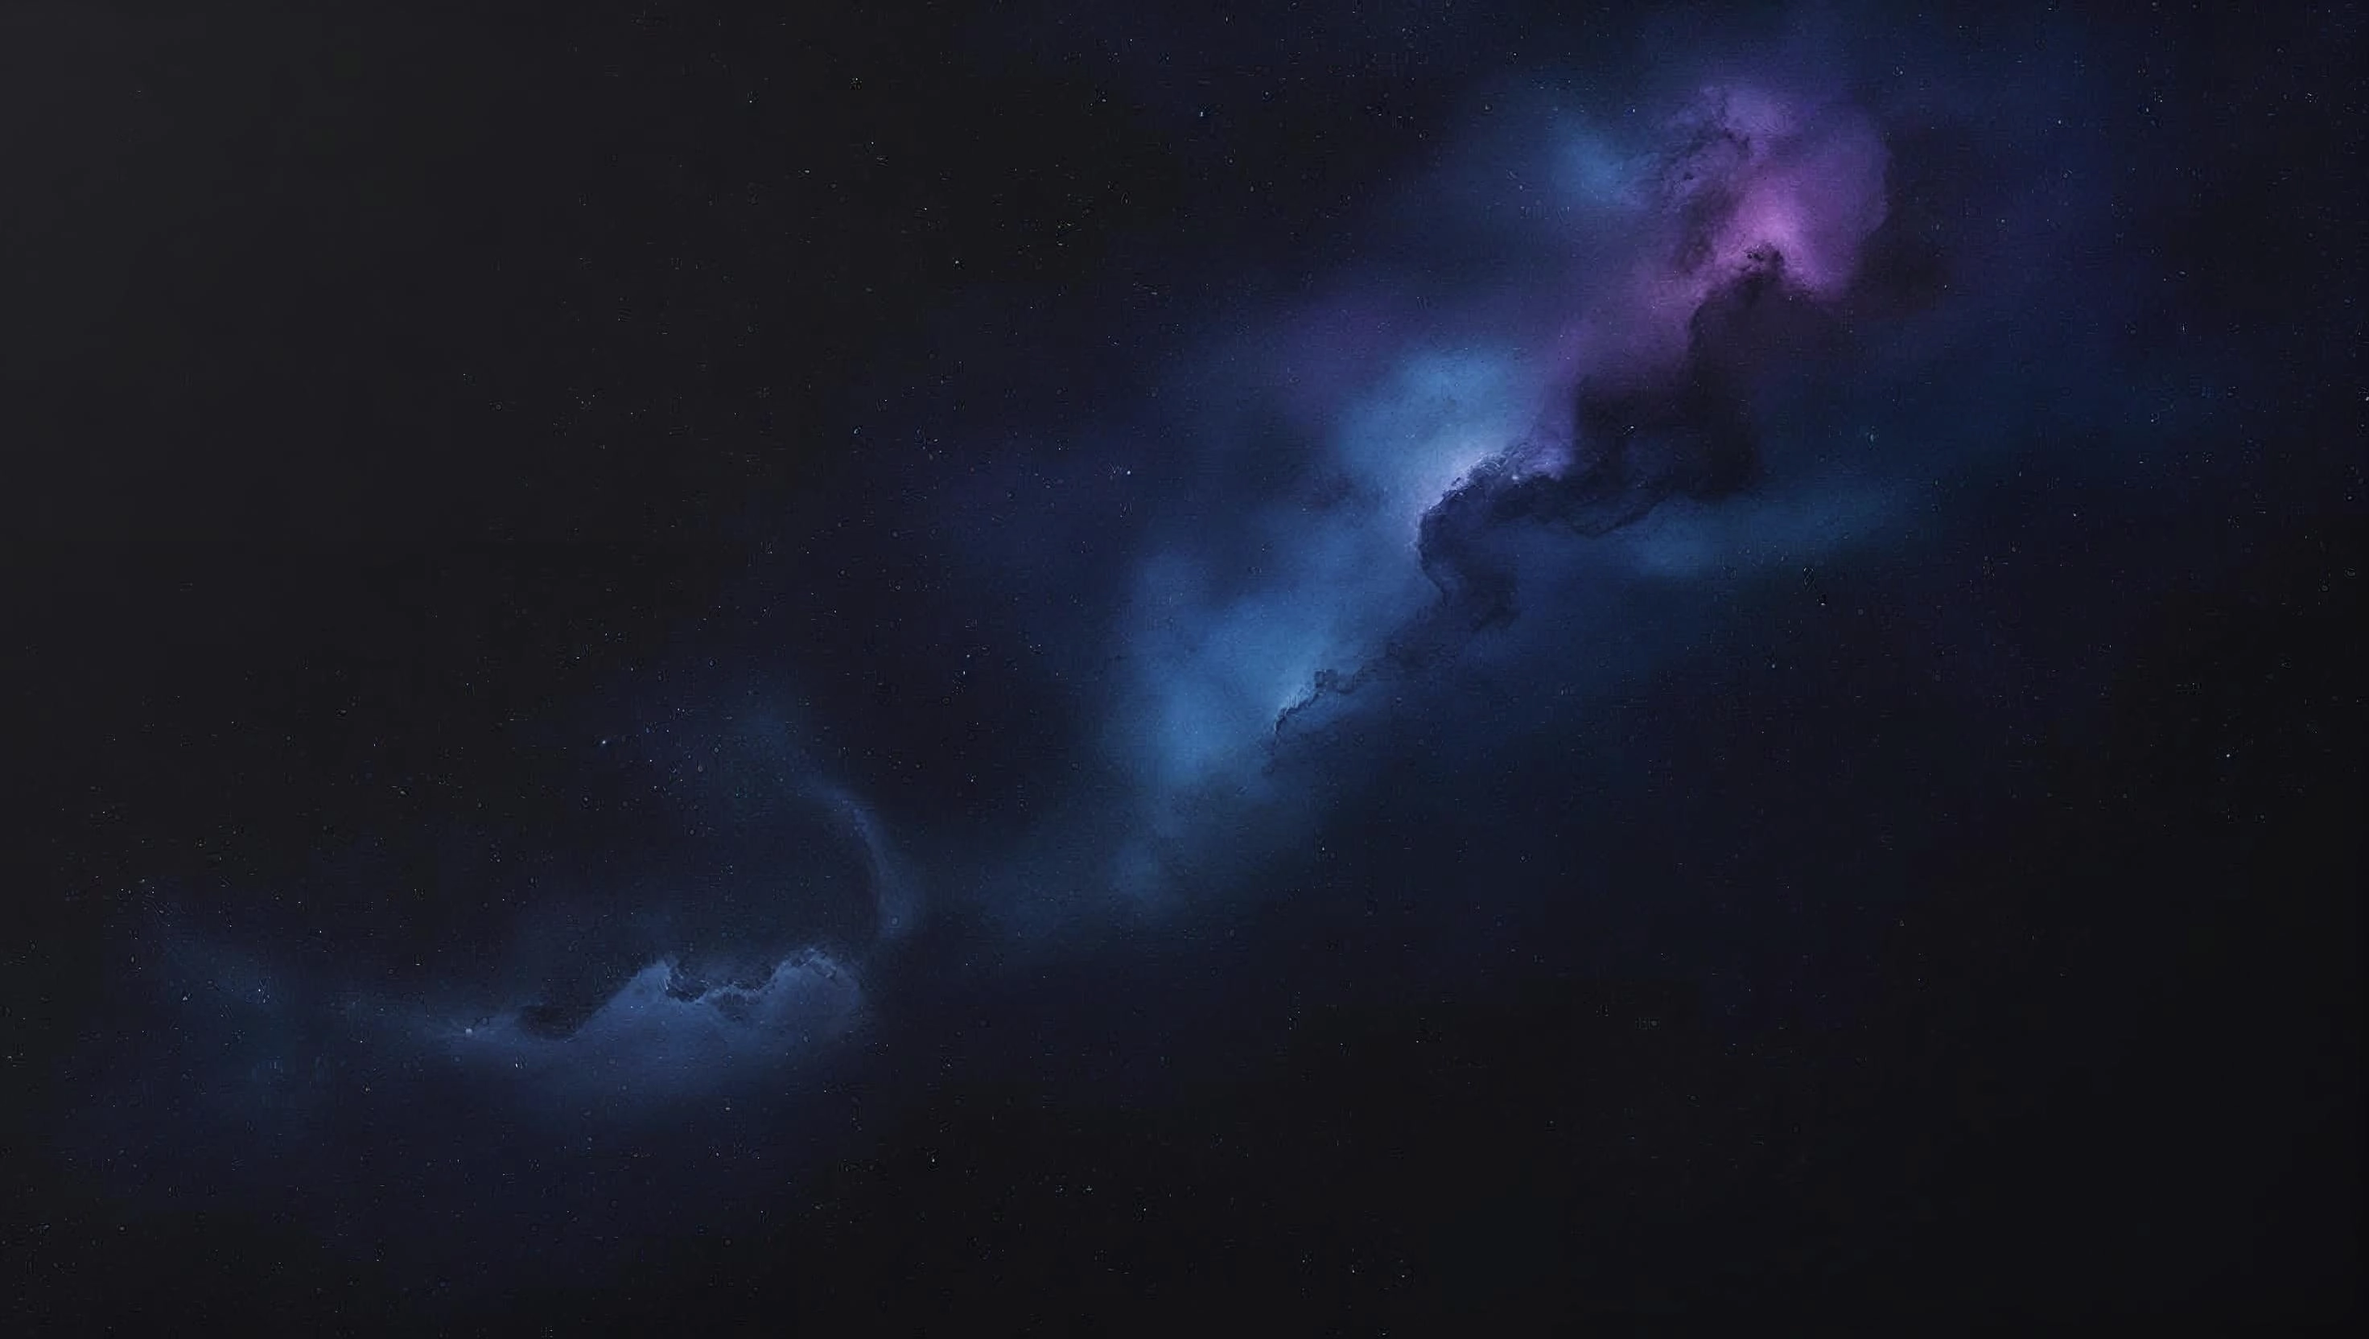
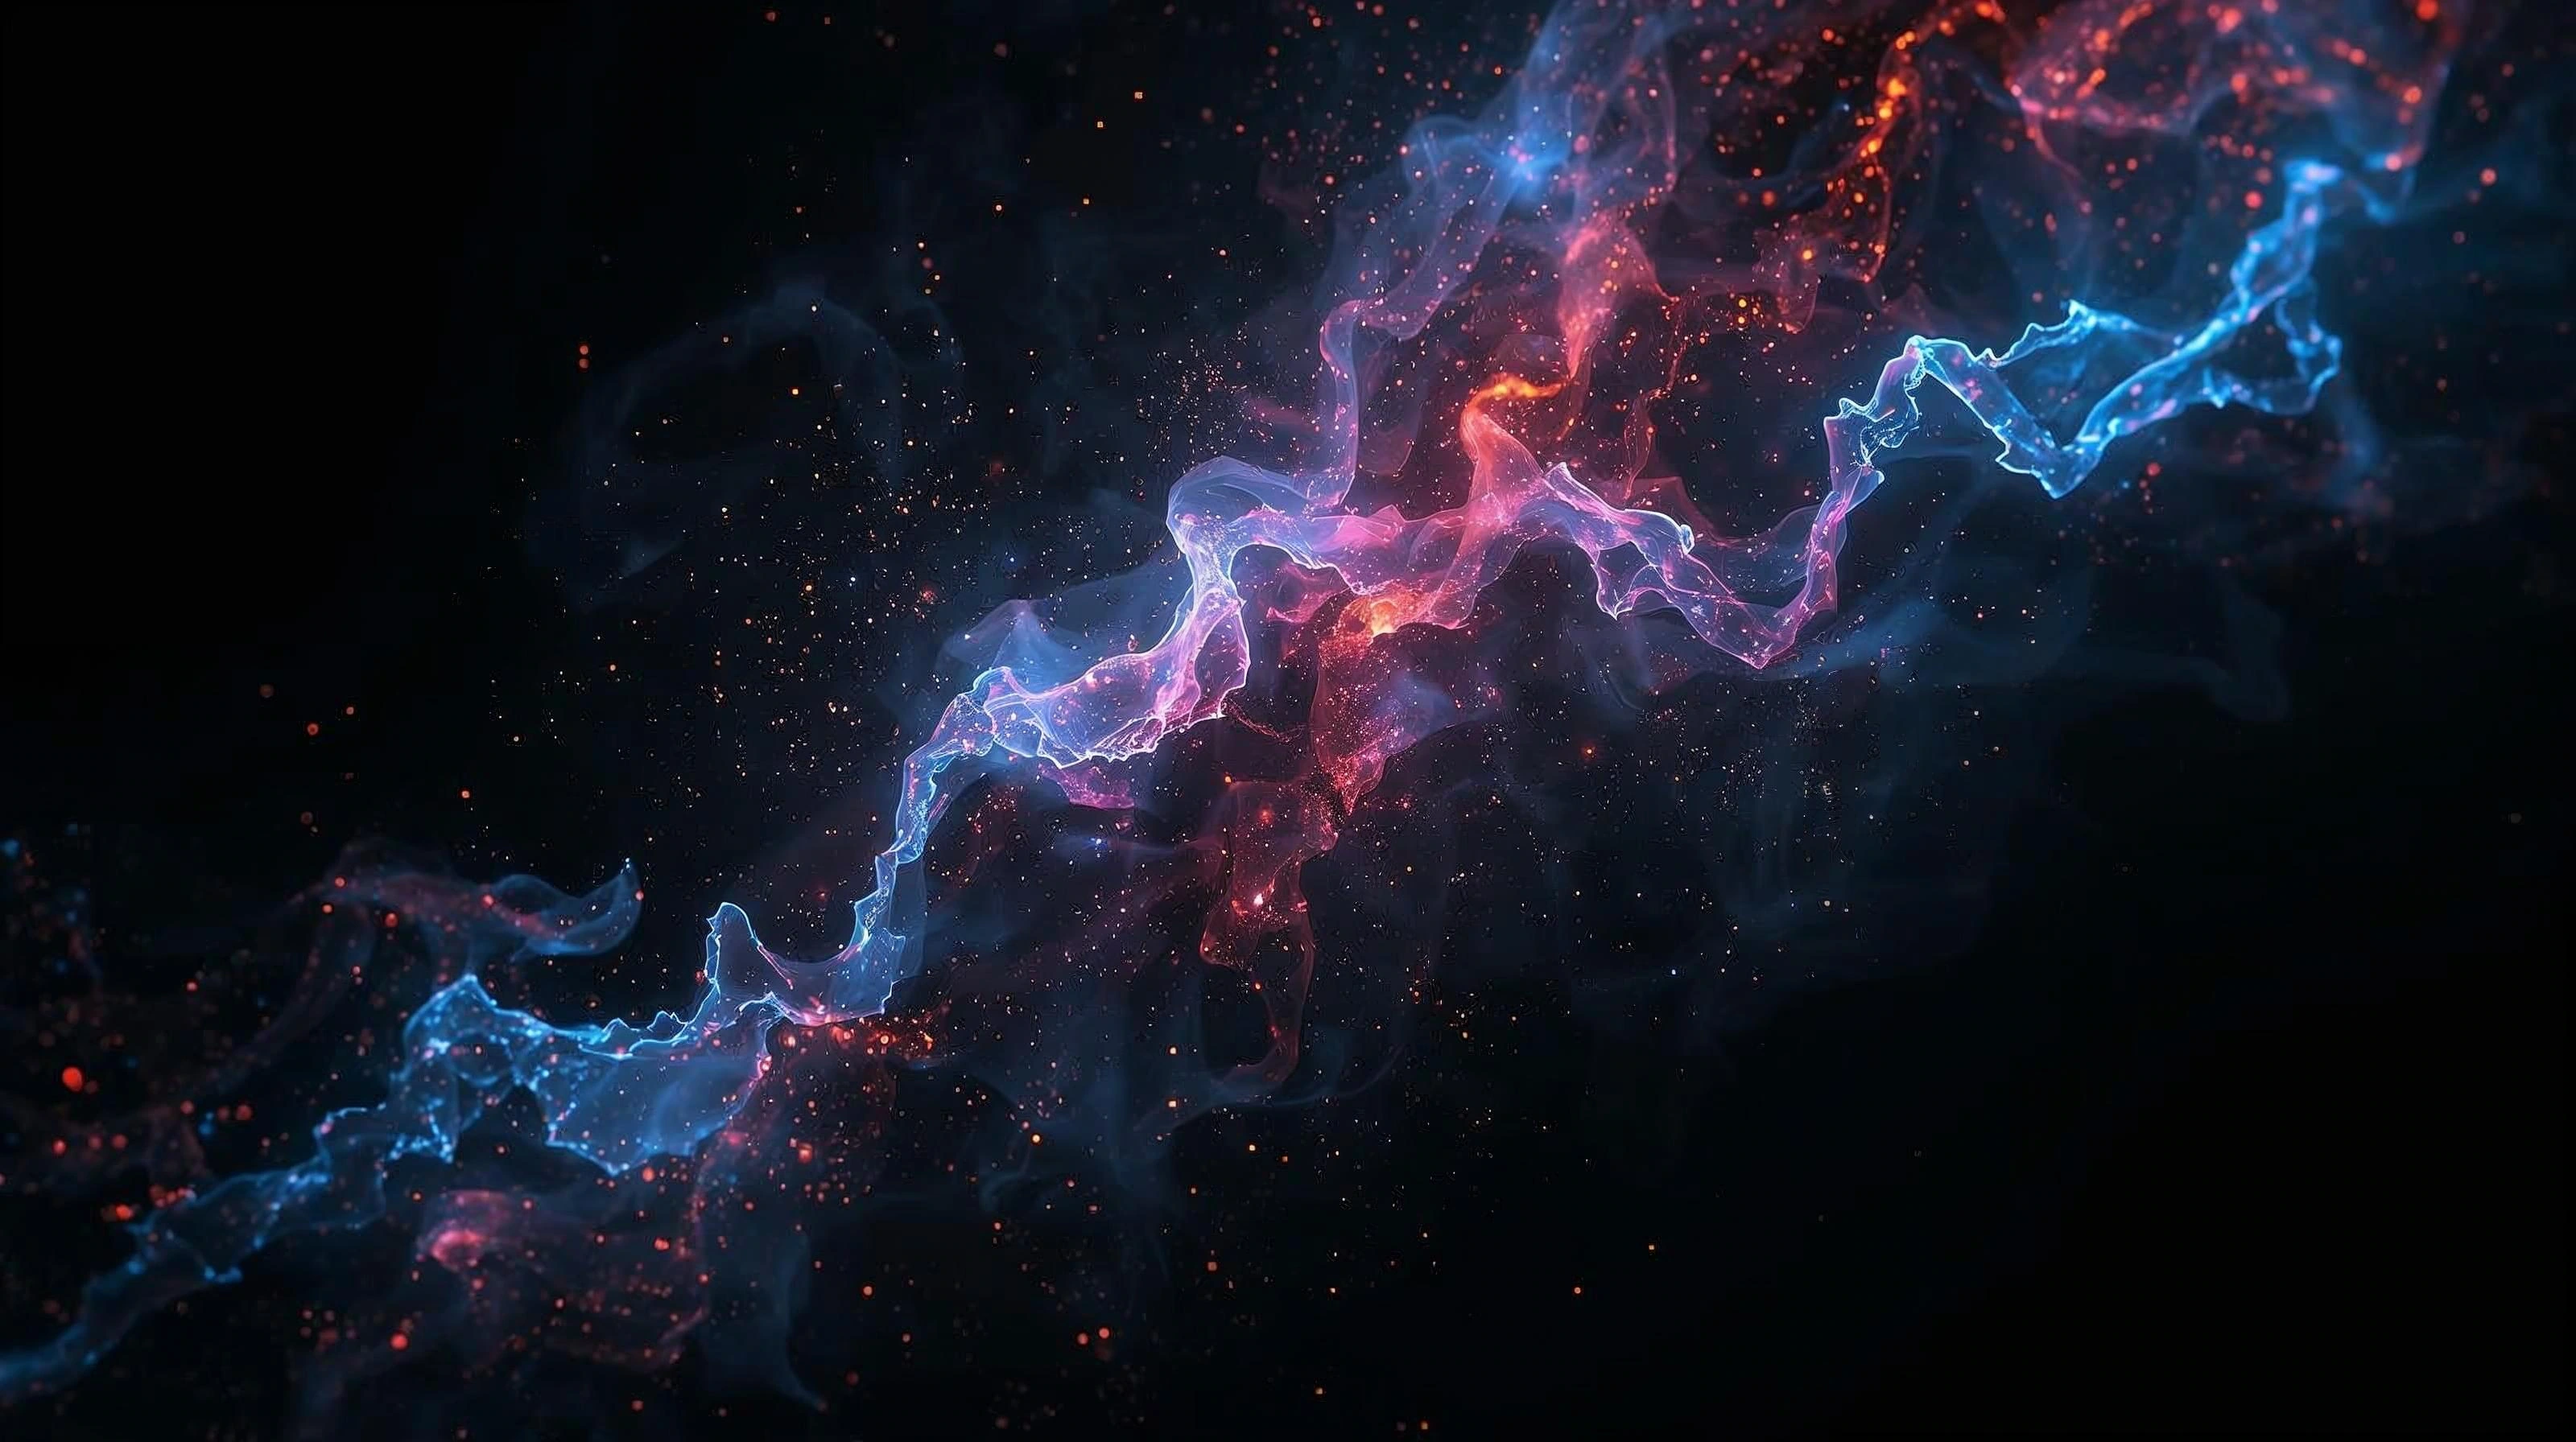
Changed the background and fixed some styling issues.

diff --git a/styles.css b/styles.css
@@ -22,10 +22,6 @@ body {
   font-family: "Roboto", sans-serif;
   margin: 0;
   padding: 0;
-  background: url(/img/background-img/Site-Background.webp);
-  background-repeat: no-repeat;
-  background-attachment: fixed;
-  background-size: cover;
   overflow-x: hidden;
   overscroll-behavior: none;
   display: flex;
@@ -33,6 +29,23 @@ body {
   justify-content: center;
   align-items: center;
   max-width: 100%;
+}
+
+.fixed-background {
+  position: fixed;
+  top: 0;
+  left: 0;
+  width: 100%;
+  height: 100%;
+  background: radial-gradient(
+      circle at center,
+      rgba(0, 0, 0, 0.5),
+      rgba(0, 0, 0, 0.1)
+    ),
+    url(/img/background-img/Site-Background.webp);
+  background-repeat: no-repeat;
+  background-size: cover;
+  z-index: -100;
 }
 
 .navbar {
@@ -76,7 +89,7 @@ body {
 }
 
 .navbar-list-item {
-  margin: 0 1rem 0 2rem;
+  margin: 0 1rem;
   list-style-type: none;
 
   & a {
@@ -88,11 +101,11 @@ body {
     transition: all 0.3s;
 
     & img {
-      height: 2rem;
+      height: 2.1rem;
     }
 
     & p {
-      font-size: 1.4rem;
+      font-size: 1.5rem;
       font-weight: 400;
     }
   }

diff --git a/index.html b/index.html
@@ -16,6 +16,7 @@
   </head>
 
   <body>
+    <div class="fixed-background"></div>
     <main>
       <div class="hamburger">
         <span class="bar"></span>
@@ -66,8 +67,8 @@
         <section class="home">
           <h1 class="home-heading">Hi, I&apos;m Andrew Martinez</h1>
           <p class="home-description">
-            A Full-Stack Developer with a strong foundation in microservices,
-            API development and database management
+            A Full-Stack Developer specializing in API development, database
+            management and microservices
           </p>
         </section>
       </div>

diff --git a/pages/about.html b/pages/about.html
@@ -16,6 +16,7 @@
   </head>
 
   <body>
+    <div class="fixed-background"></div>
     <main>
       <div class="hamburger">
         <span class="bar"></span>

diff --git a/pages/education.html b/pages/education.html
@@ -16,6 +16,7 @@
   </head>
 
   <body>
+    <div class="fixed-background"></div>
     <main>
       <div class="hamburger">
         <span class="bar"></span>

diff --git a/pages/projects.html b/pages/projects.html
@@ -16,6 +16,7 @@
   </head>
 
   <body>
+    <div class="fixed-background"></div>
     <main>
       <div class="hamburger">
         <span class="bar"></span>
